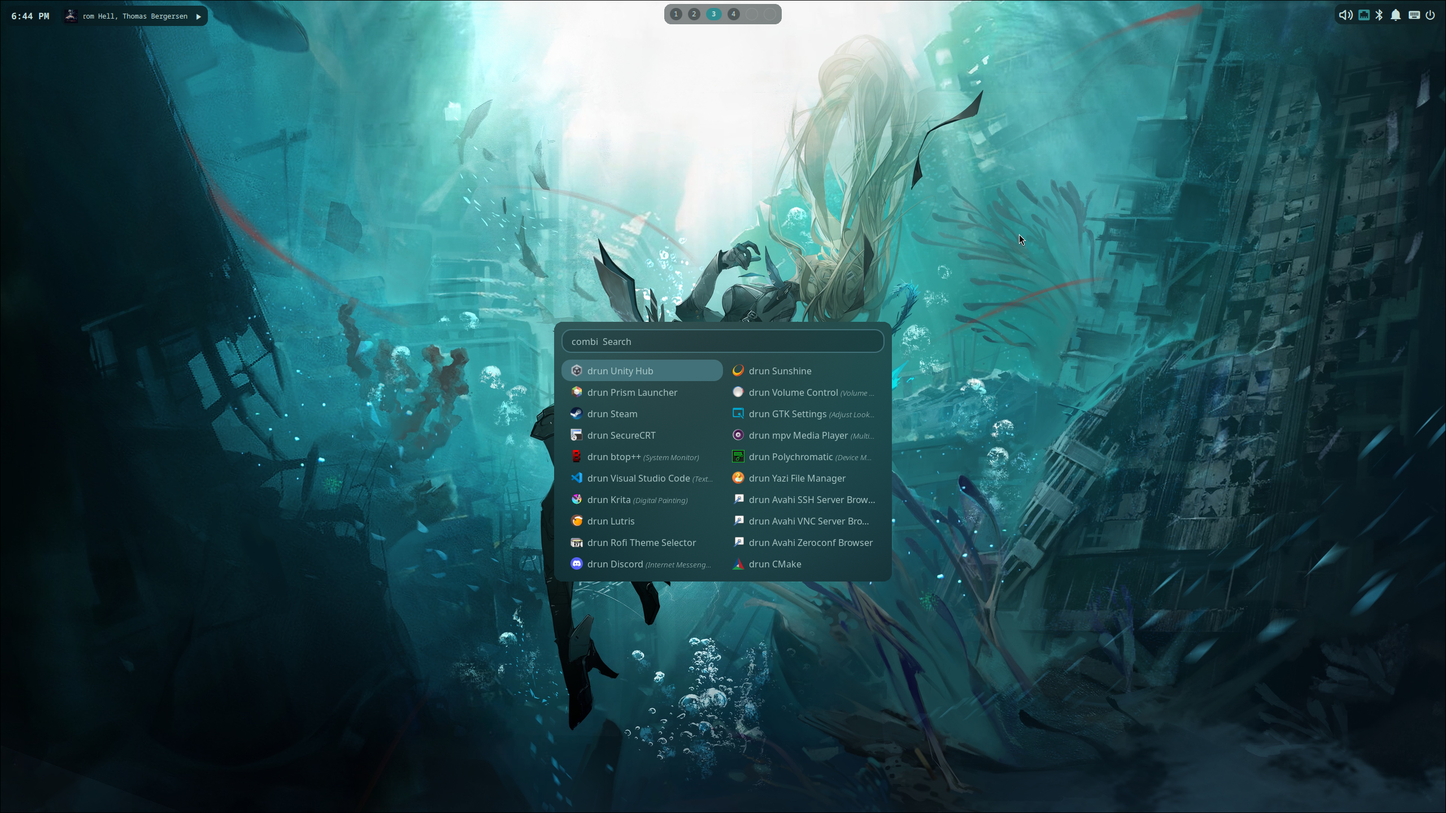
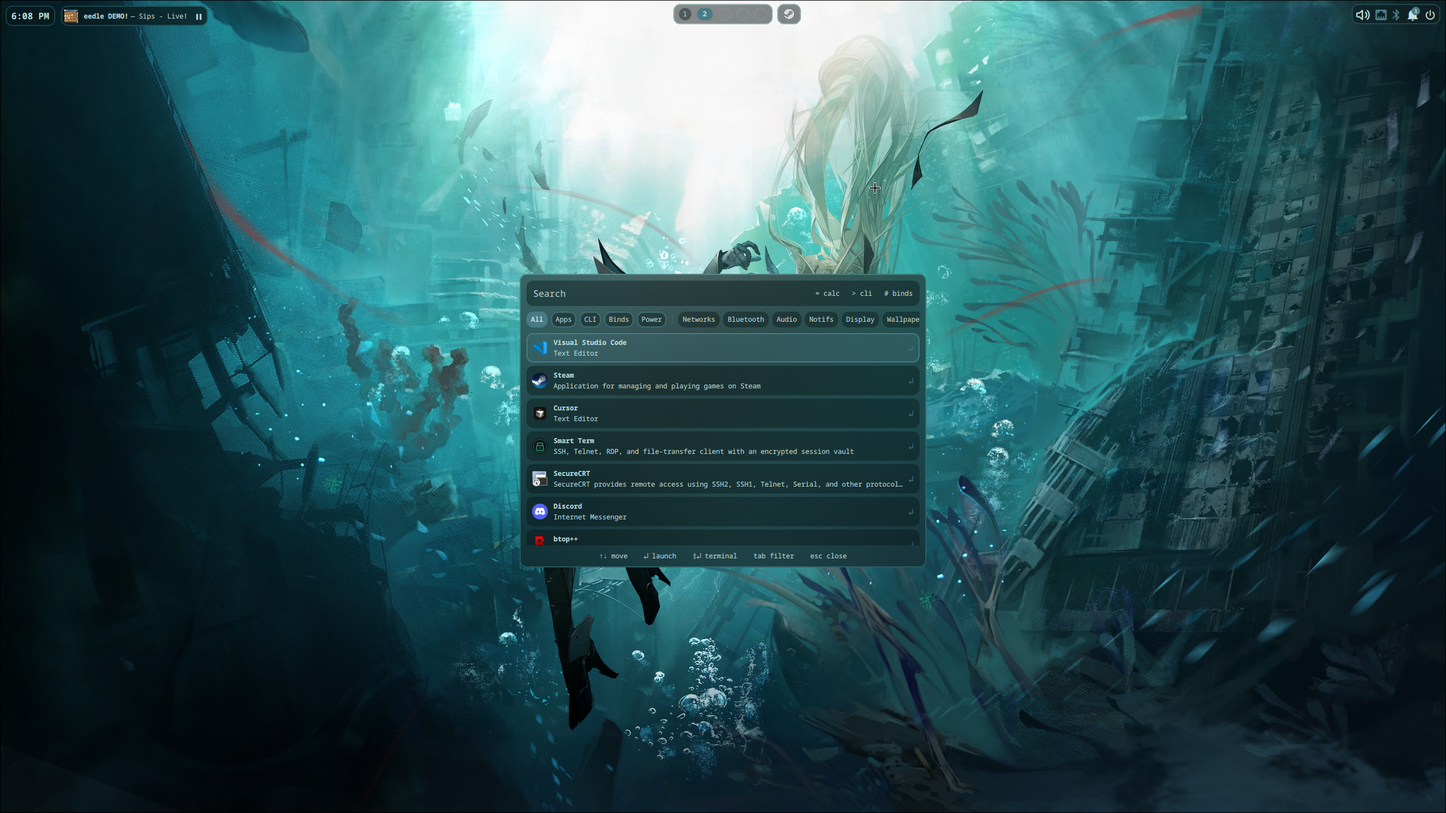
README.md changes

diff --git a/README.md b/README.md
@@ -7,7 +7,7 @@ User configs in `~/.config` are symlinked with GNU Stow. System files under `/et
 ## Features
 
 - **Hyprland** built with new Lua configuration and per-monitor workspaces.
-- **Quickshell** QML-based UI (Status Bar, Login Screen, Lock Screen, and Workspace Preview).
+- **Quickshell** QML-based UI (App Launcher, Status Bar, Login Screen, Lock Screen, and Workspace Preview).
 - **Wallpaper Slideshow** with custom keybinds using awww.
 - **Display Manager** using greetd with Hyprland integration.
 - **Hardware Detection** installs drivers for every detected Intel, AMD, or supported NVIDIA GPU.
@@ -22,9 +22,9 @@ User configs in `~/.config` are symlinked with GNU Stow. System files under `/et
 
 ## Screenshots
 
-|                                 Status Bar & Blurred Windows                                  |                                       Rofi App Launcher                                       |
+|                                 Live Workspace Preview                                  |                                       Lumen App Launcher                                       |
 | :-------------------------------------------------------------------------------------------: | :-------------------------------------------------------------------------------------------: |
-| <img src="./assets/desktop.png" /> | <img src="./assets/app-launcher.png" /> |
+| <img src="./assets/workspace-preview.png" /> | <img src="./assets/app-launcher.png" /> |
 |                                    **Popup Menu Buttons**                                     |                                    **Minimal Lockscreen**                                     |
 | <img src="./assets/popup.png" /> | <img src="./assets/lock-screen.png" /> |
 
